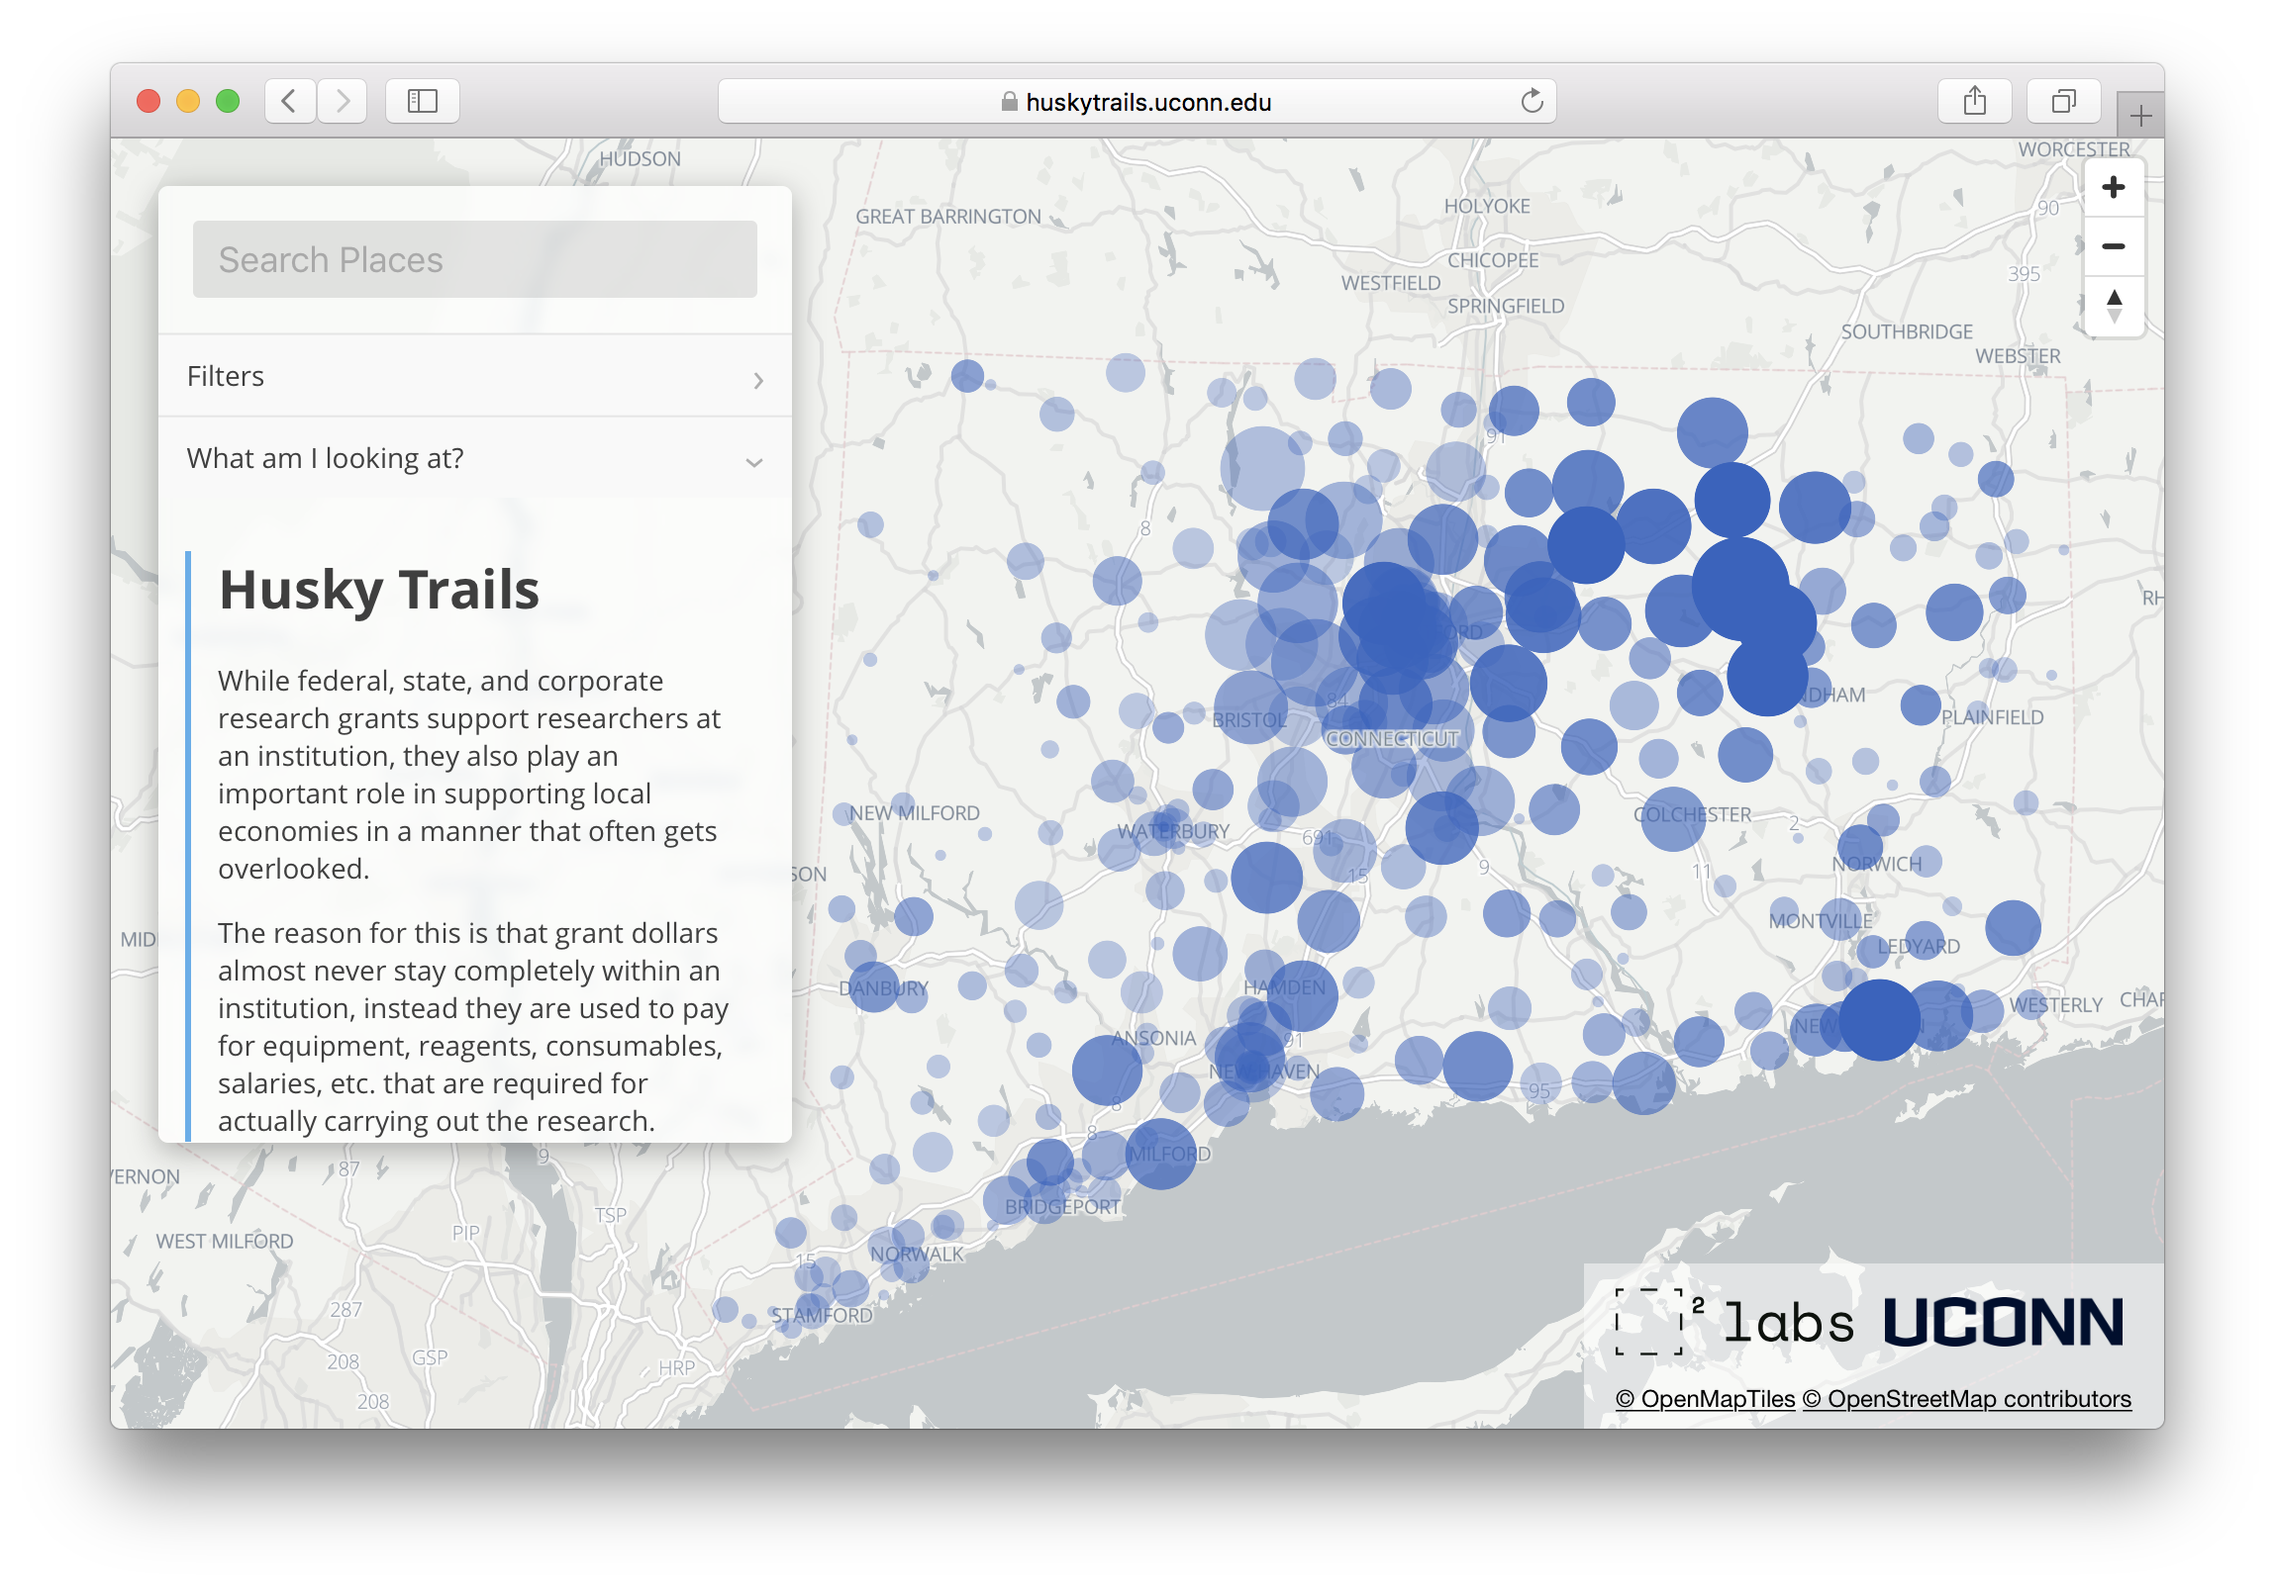
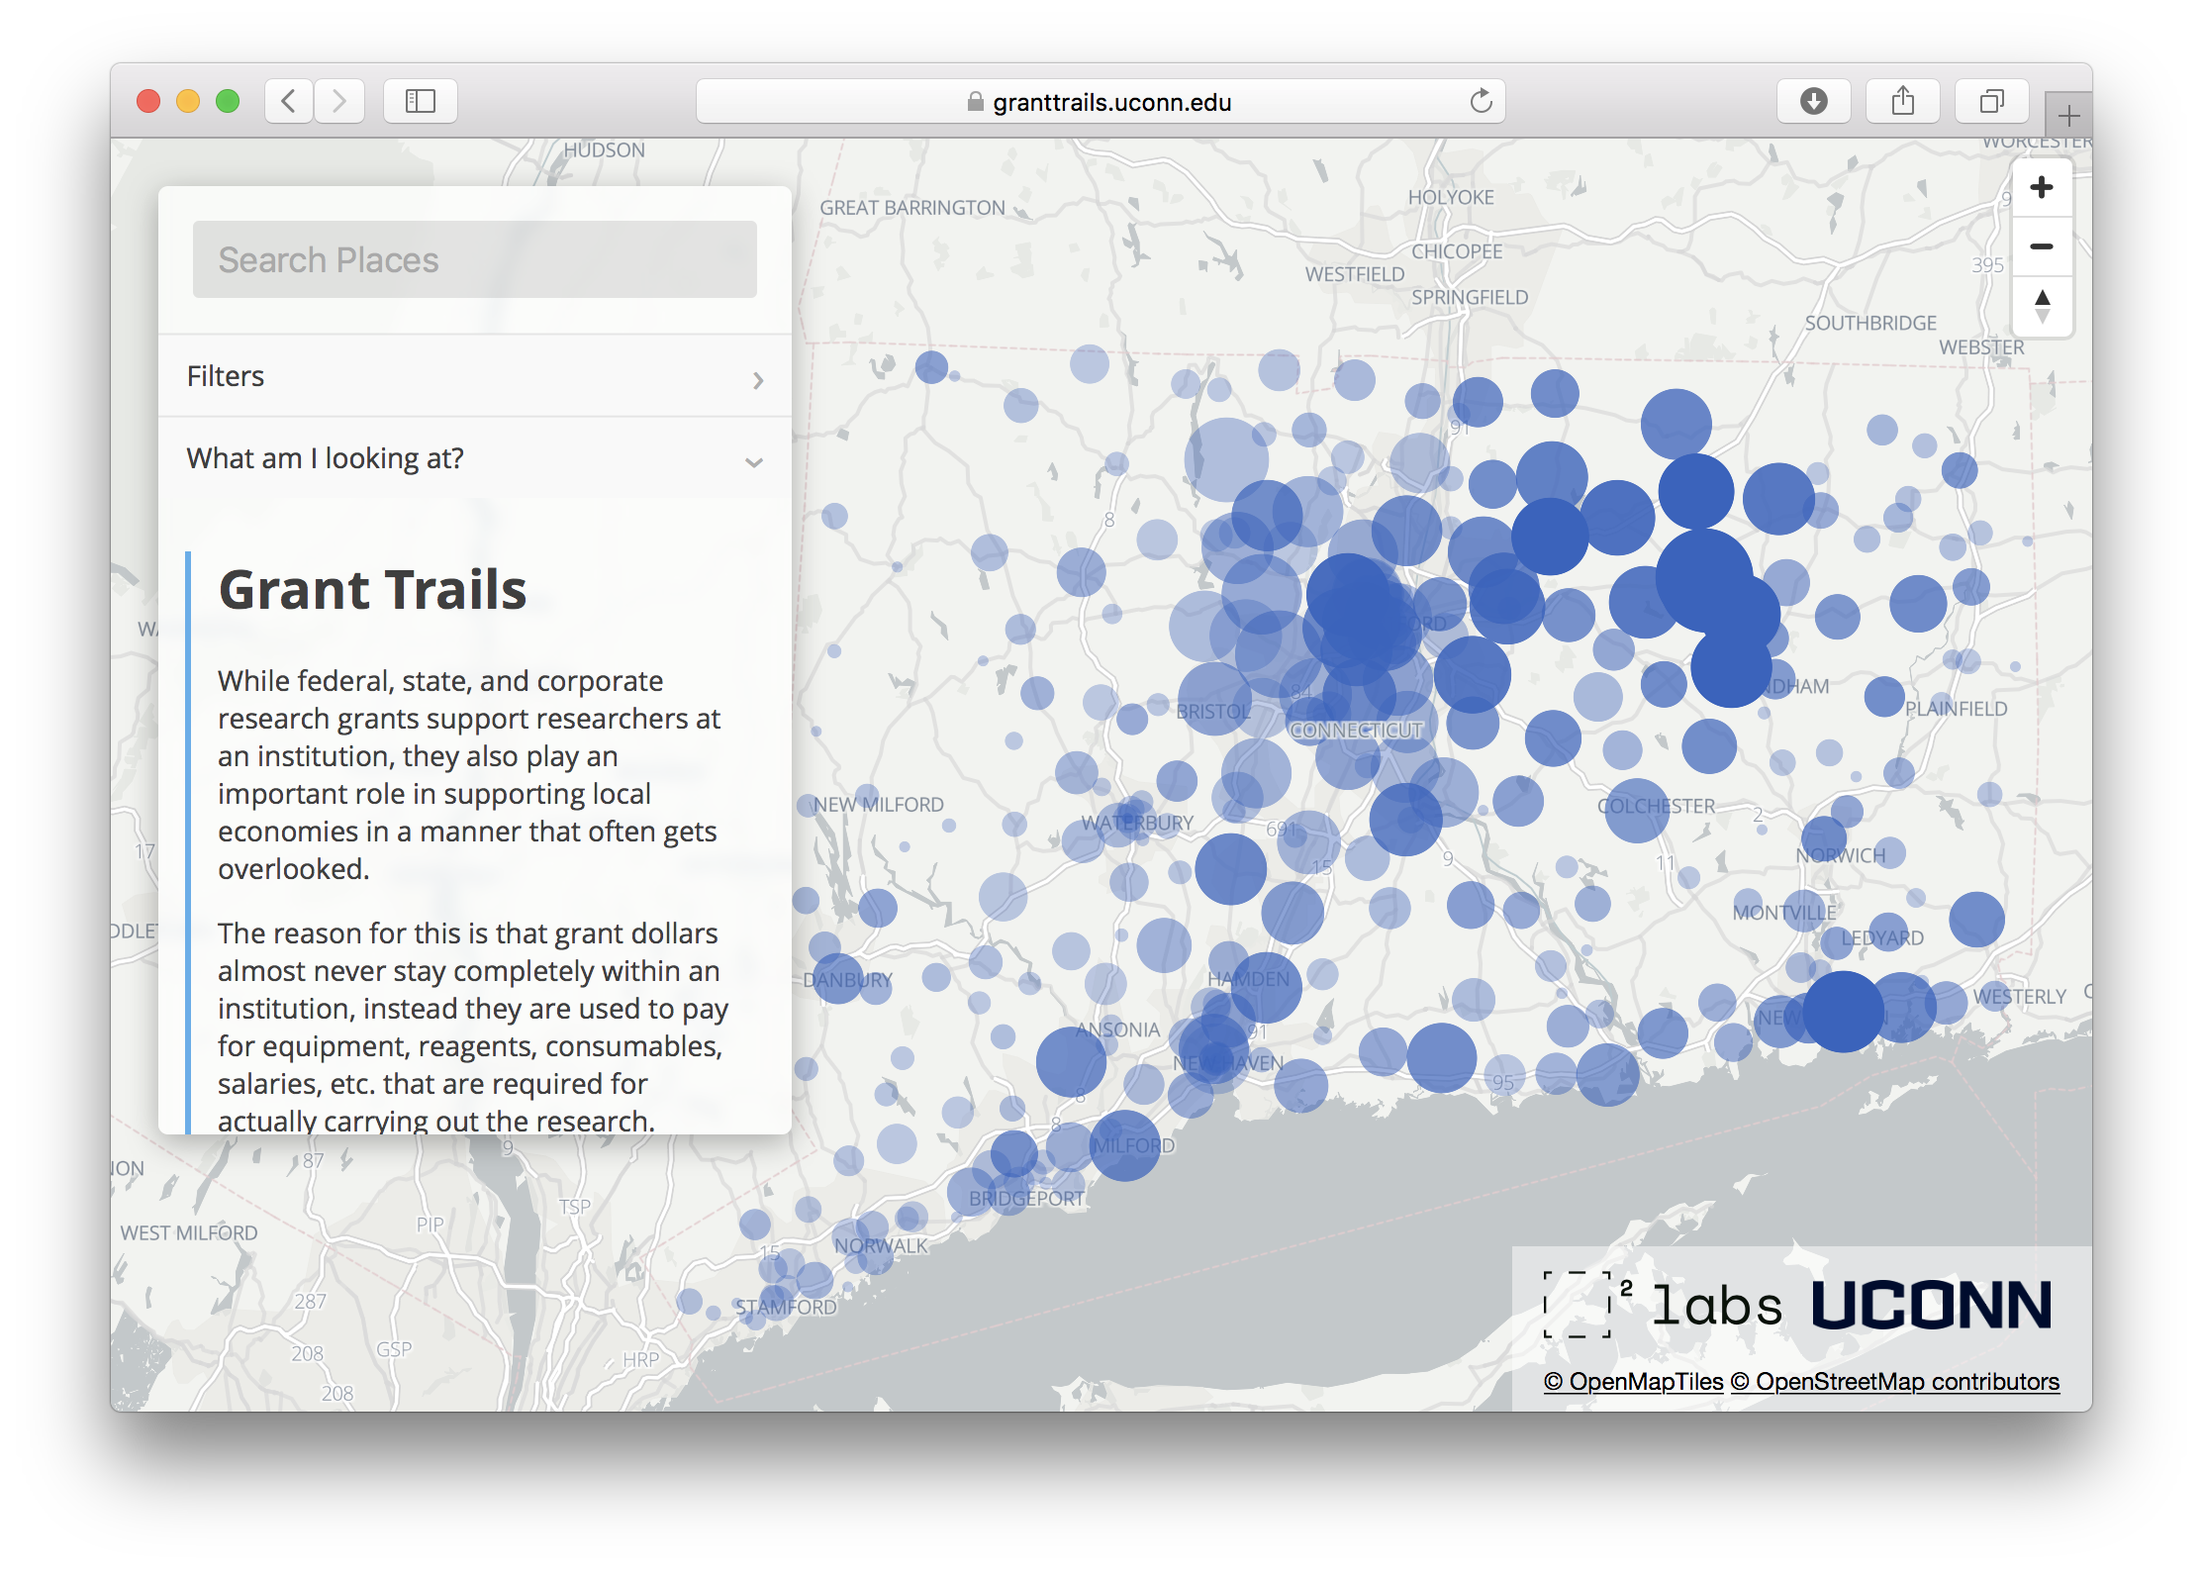
Rename to Grant Trails

diff --git a/resources/assets/js/config.js b/resources/assets/js/config.js
@@ -22,7 +22,7 @@ export const colors = {
 // The @markdown comment allows for markdown syntax highlighting when using the
 // language-babel Atom package.
 export const about = /* @markdown */`
-# Husky Trails
+# Grant Trails
 
 While federal, state, and corporate research grants support researchers at an institution, they also play an important role in supporting local economies in a manner that often gets overlooked.
 
@@ -36,7 +36,7 @@ Feel free to explore the visualization by typing in a location (city or zip), ad
 
 ## Credit
 
-Husky Trails is an open source project available for universities to showcase their geographic grant distribution. Source code can be found on [GitHub](https://github.com/SquaredLabs/HuskyTrails).
+Grant Trails is an open source project available for universities to showcase their geographic grant distribution. Source code can be found on [GitHub](https://github.com/SquaredLabs/GrantTrails).
 
-The project built using an extensive library of open data and software. A brief list can be found in the [copyright and license file](https://github.com/SquaredLabs/HuskyTrails/blob/master/LICENSE.md).
+The project built using an extensive library of open data and software. A brief list can be found in the [copyright and license file](https://github.com/SquaredLabs/GrantTrails/blob/master/LICENSE.md).
 `

diff --git a/resources/views/index.blade.php b/resources/views/index.blade.php
@@ -1,13 +1,13 @@
 <!DOCTYPE html>
 <html lang="{{ config('app.locale') }}">
     <head>
-        <title>Husky Trails</title>
+        <title>Grant Trails</title>
 
         <meta charset="utf-8">
         <meta http-equiv="X-UA-Compatible" content="IE=edge">
         <meta name="viewport" content="initial-scale=1,maximum-scale=1,user-scalable=no" />
 
-        <meta property="og:title" content="Husky Trails" />
+        <meta property="og:title" content="Grant Trails" />
         <meta property="og:description" content="Visualize University of Connecticut expenditures." />
         <meta property="og:type" content="website" />
         <meta property="og:url" content="http://www.imdb.com/title/tt0117500/" />

diff --git a/config/elasticsearch.php b/config/elasticsearch.php
@@ -8,7 +8,7 @@ return [
     |--------------------------------------------------------------------------
     */
 
-    'index' => env('ELASTICSEARCH_INDEX', 'huskytrails'),
+    'index' => env('ELASTICSEARCH_INDEX', 'granttrails'),
 
     'host' => env('ELASTICSEARCH_HOST', 'localhost'),
 

diff --git a/LICENSE.md b/LICENSE.md
@@ -2,9 +2,9 @@
 
 Copyright (c) 2017, Squared Labs - A unit of COR²E.
 
-Husky Trails is licensed under the Mozilla Public License 2.0. A copy can be found in this repository and on the [Mozilla website](https://www.mozilla.org/en-US/MPL/).
+Grant Trails is licensed under the Mozilla Public License 2.0. A copy can be found in this repository and on the [Mozilla website](https://www.mozilla.org/en-US/MPL/).
 
-Husky Trails was built using an extensive library of open data and software. The below projects and data providers do not officially endorse Husky Trails in any manner. This list is not exhaustive.
+Grant Trails was built using an extensive library of open data and software. The below projects and data providers do not officially endorse Grant Trails in any manner. This list is not exhaustive.
 
   - [Coordinates and city names](http://download.geonames.org/export/zip/) by [GeoNames](http://www.geonames.org/). Licensed under [CC BY 4.0](https://creativecommons.org/licenses/by/4.0/) and unmodified from the original.
 

diff --git a/README.md b/README.md
@@ -1,6 +1,6 @@
-# Husky Trails
+# Grant Trails
 
-Husky Trails visualizes University of Connecticut expenditures.
+Grant Trails visualizes University of Connecticut expenditures.
 
 ![Release Candidate](public/img/release-candidate.png)
 
@@ -8,4 +8,4 @@ This project is in early beta and source code is subject to change. Setup instru
 
 ## License
 
-[License](https://github.com/SquaredLabs/HuskyTrails/blob/master/LICENSE.md)
+[License](https://github.com/SquaredLabs/GrantTrails/blob/master/LICENSE.md)
